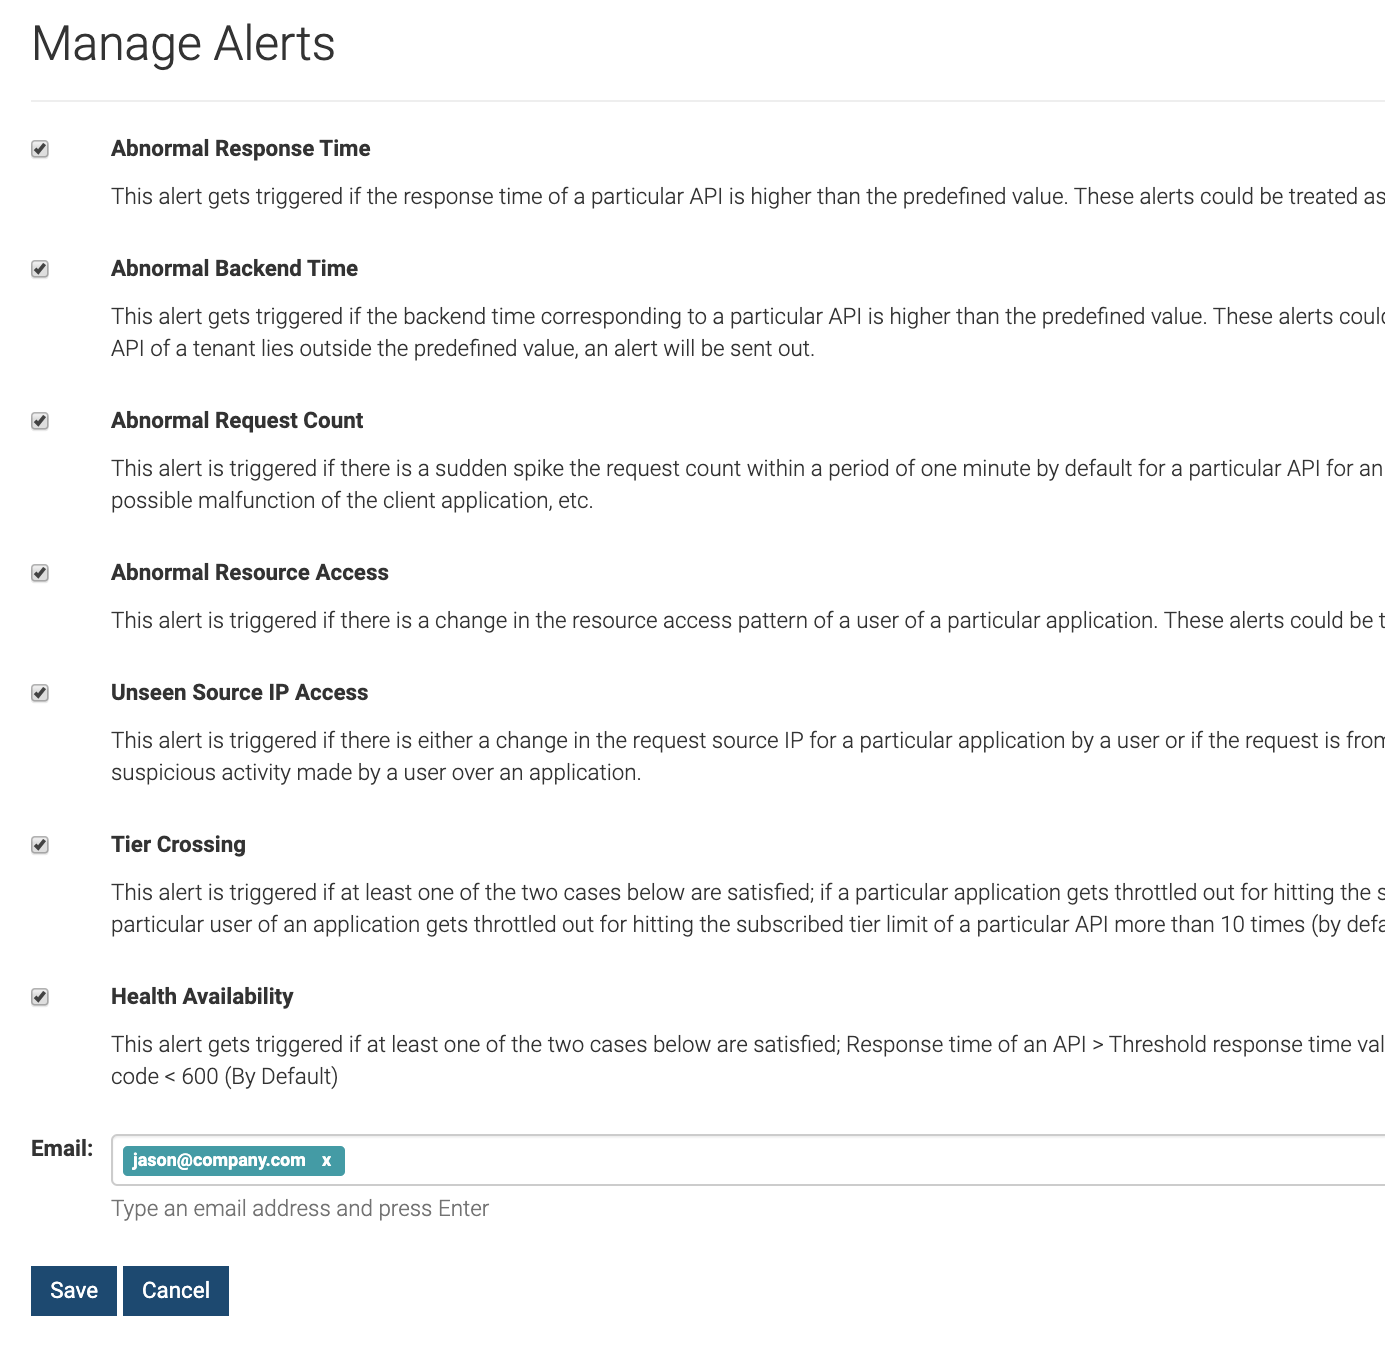
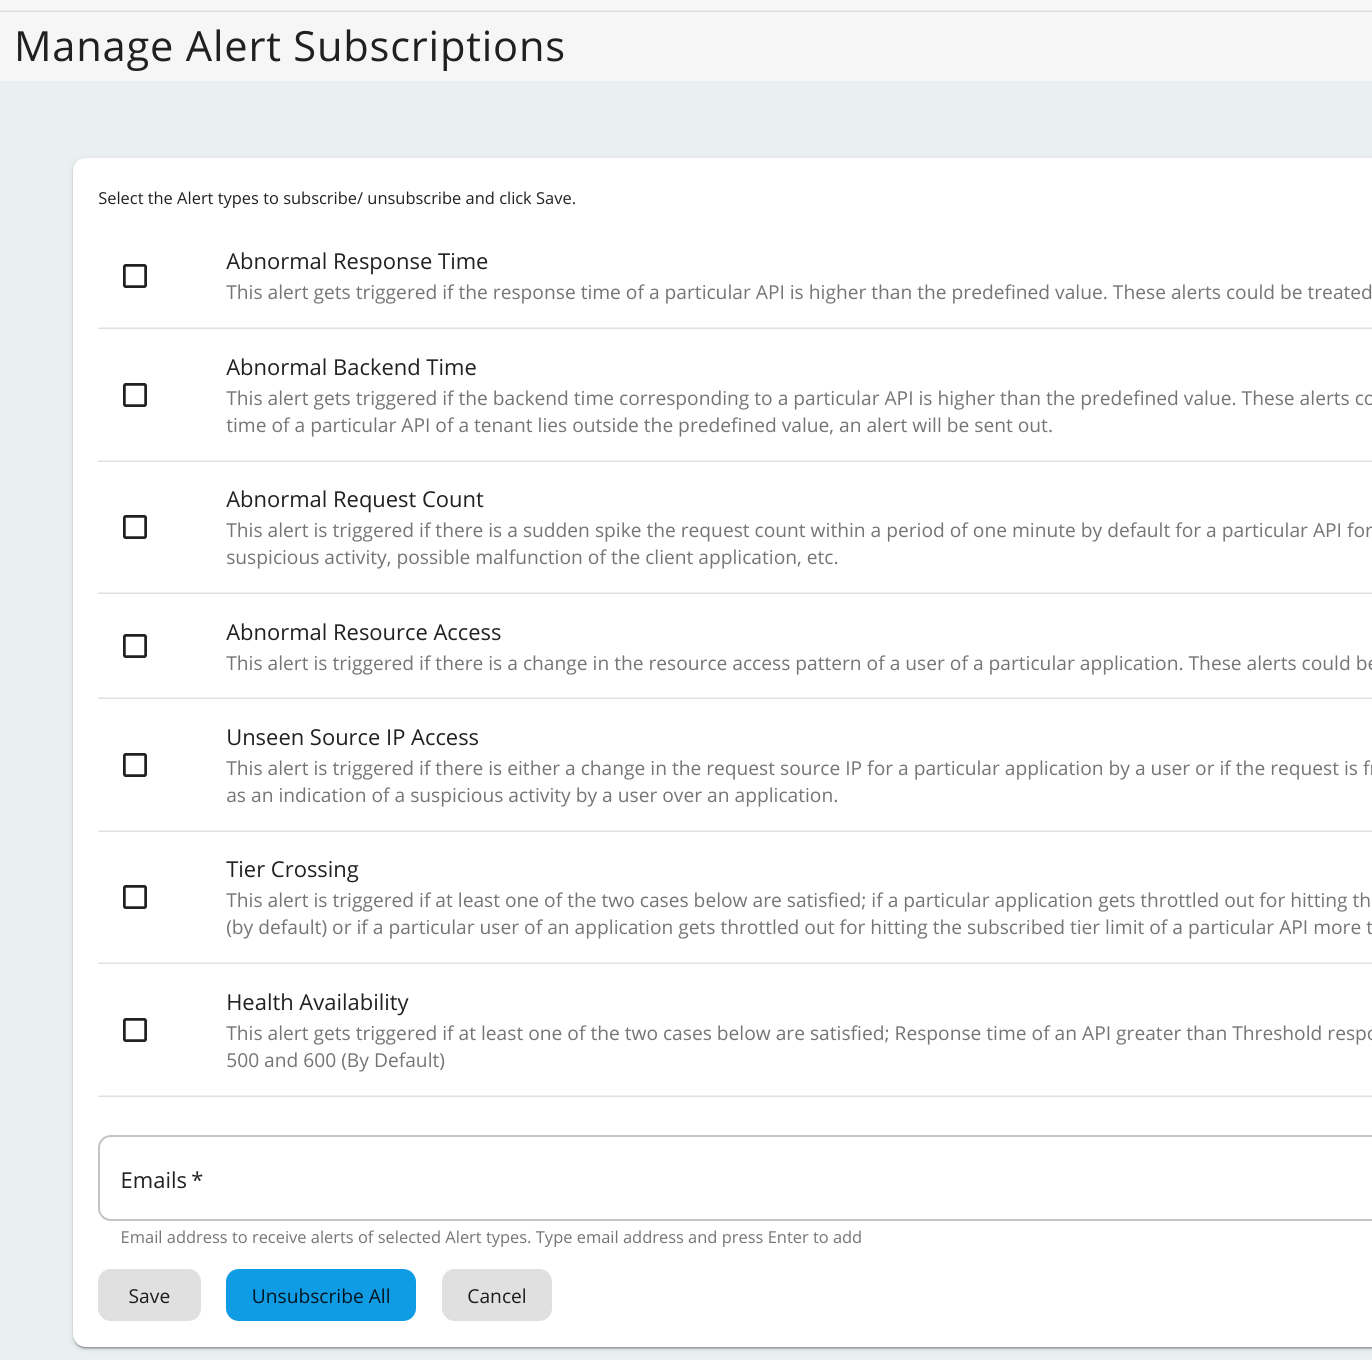
Update alert subscription for administrators doc

diff --git a/en/docs/learn/analytics/managing-alerts-with-real-time-analytics/subscribing-for-alerts.md b/en/docs/learn/analytics/managing-alerts-with-real-time-analytics/subscribing-for-alerts.md
@@ -16,7 +16,7 @@ You can subscribe to events as a system administrator or as a API publisher/subs
 A system administrator is allowed to select one or more alert types to subscribe for, as well as specify a list of email addresses to which the alerts should be sent. Follow the procedure below to carry out the tasks mentioned above using the Admin Portal of WSO2 API Manager.
 
 1.  Log into the WSO2 API Manager Admin Portal using the `https://<API-M_HOST>:<API-M_PORT>/admin` URL.
-2.  In **ANALYTICS** menu, Click **MANAGE ALERT TYPES** to open the **Manage Alert Types** page.
+2.  Click **Manage Alerts** to open the **Manage Alert Subscriptions** page.
     ![Subscribe to alerts in admin portal](../../../assets/img/learn/alerts-subscribe-admin-portal.png)
 3.  Select the relevant check boxes based on the alert types to which you want to subscribe.
 4.  Under **Email list** , enter the list of email addresses that should receive alerts. The email addresses should be those of system administrators. Each email address can be separated with a comma or you can type Email address and press Enter.
@@ -44,12 +44,12 @@ An API Manager publisher/subscriber can enable/disable alert types based on the 
 #### System Administrators
 
 1.  Log into the WSO2 API Manager Admin Portal using the `https://<API-M_HOST>:<API-M_PORT>/admin` URL.
-2.  In **ANALYTICS** menu, Click **MANAGE ALERT TYPES** to open the **Manage Alert Types** page. <br />
+2.  Click **Manage Alerts** to open the **Manage Alert Subscriptions** page.
     ![Unubscribe to alerts in admin portal](../../../assets/img/learn/alerts-unsubscribe-admin-portal.png)
 3.  Deselect the relevant check boxes of the alert types to which you want to unsubscribe.
 4.  Under **Email list** , remove the email addresses of users that should be removed from alerts recipient list.
 5.  Click **Save** to save the information.
-6.  Click **Unsubscribe** to unsubscribe from all alert types.
+6.  Click **Unsubscribe All** to unsubscribe from all alert types.
 
 #### APIM Publisher/Subscriber
 
